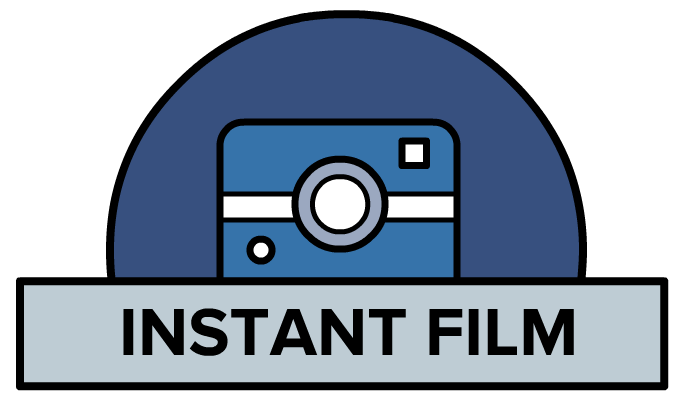
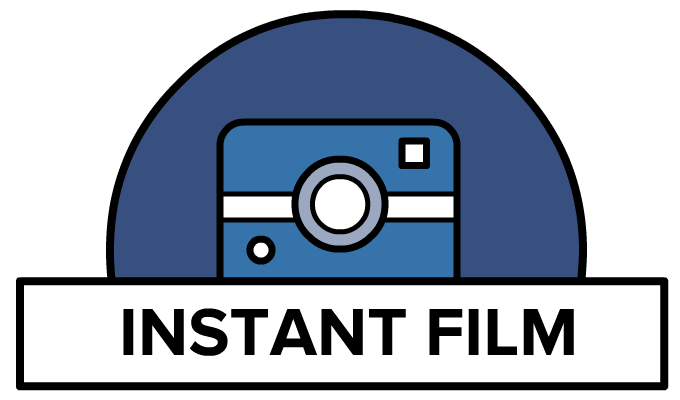
Design tweaks and added footer

Changed region(s): [[0.0309, 0.69, 0.9882, 0.96]]

diff --git a/index.html b/index.html
@@ -33,28 +33,35 @@
     </header>
 
     <div class="container text-center mt-4">
-      <header class="text-center p-2 d-none">
-        <h3>Tools for filmmakers</h3>
-      </header>
+      <div class="tagline">Tools for filmmakers</div>
 
       <main>
         <div class="row">
           <div class="col-md-4">
-            <a href="https://tapemachine.instantfilm.net"
+            <a
+              href="https://tapemachine.instantfilm.net"
+              title="Tape Machine"
+              alt="Tape Machine"
               ><img src="img/tape-machine.png" class="icon"
             /></a>
 
             <p>Quickly grade and export your single-take videos.</p>
           </div>
           <div class="col-md-4">
-            <a href="https://polaroid.instantfilm.net"
+            <a
+              href="https://polaroid.instantfilm.net"
+              title="Polaroid"
+              alt="Polaroid"
               ><img src="img/polaroid.png" class="icon"
             /></a>
 
             <p>Fun tool to create video slideshows.</p>
           </div>
           <div class="col-md-4">
-            <a href="https://aspectratio.instantfilm.net"
+            <a
+              href="https://aspectratio.instantfilm.net"
+              title="Aspect Ratio Calculator"
+              alt="Aspect Ratio Calculator"
               ><img src="img/aspectratio.png" class="icon"
             /></a>
 
@@ -63,5 +70,9 @@
         </div>
       </main>
     </div>
+
+    <footer>
+      Made by <a href="https://www.filmkit.net" target="_blank">Filmkit.net</a>
+    </footer>
   </body>
 </html>

diff --git a/style.css b/style.css
@@ -44,7 +44,8 @@ h2 {
 }
 
 main {
-  margin-top: 100px;
+  margin-top: 75px;
+  margin-bottom: 75px;
 }
 
 header {
@@ -55,6 +56,38 @@ header {
 
   background-color: #232529;
   height: 178px;
+}
+
+footer {
+  text-align: center;
+  border-top: 3px solid black;
+  padding: 20px;
+  background-color: #232529;
+  color: white;
+
+  width: 100%;
+}
+
+footer a {
+  color: white;
+}
+
+footer a:hover {
+  color: #ddd;
+}
+
+.tagline {
+  text-align: center;
+  color: white;
+  margin-top: 10px;
+  display: inline-block;
+  border: 4px solid black;
+  padding: 5px 30px;
+  background-color: #c1cbd3;
+  color: black;
+  text-transform: uppercase;
+  font-weight: bold;
+  font-size: 22px;
 }
 
 @media only screen and (max-width: 1000px) and (min-width: 750px) {
